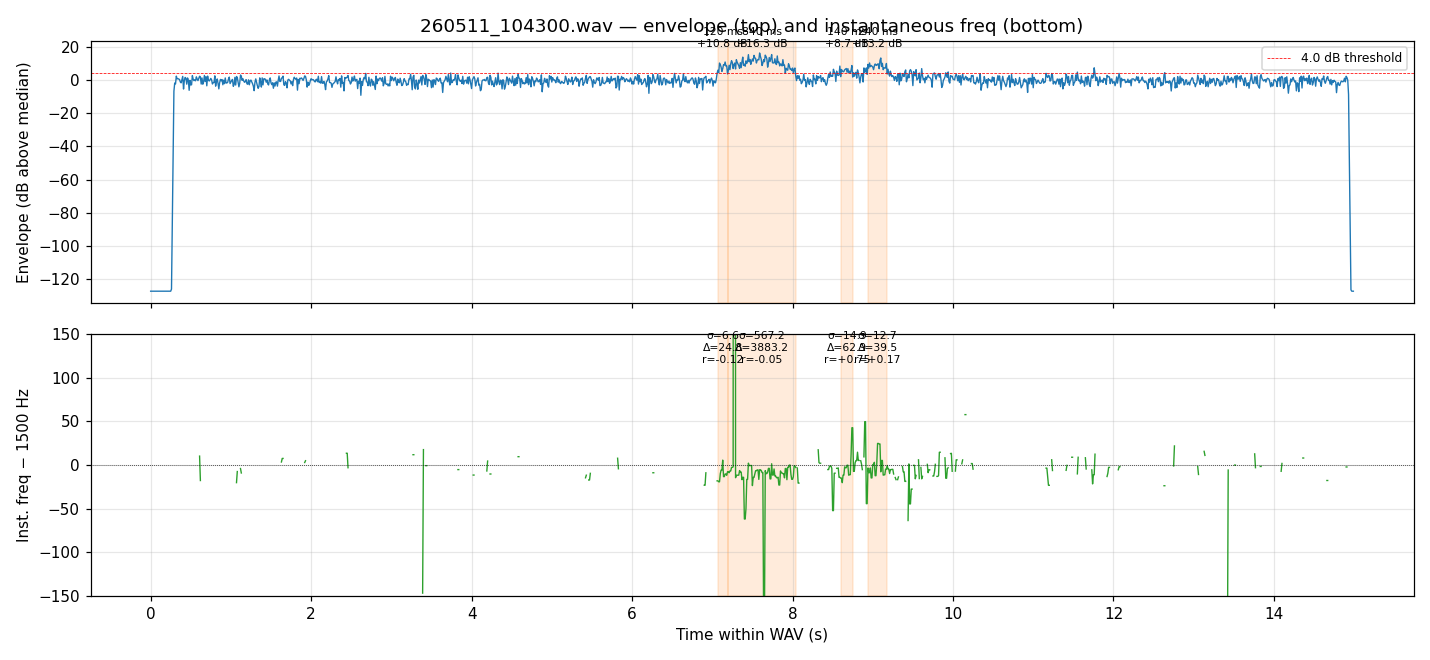
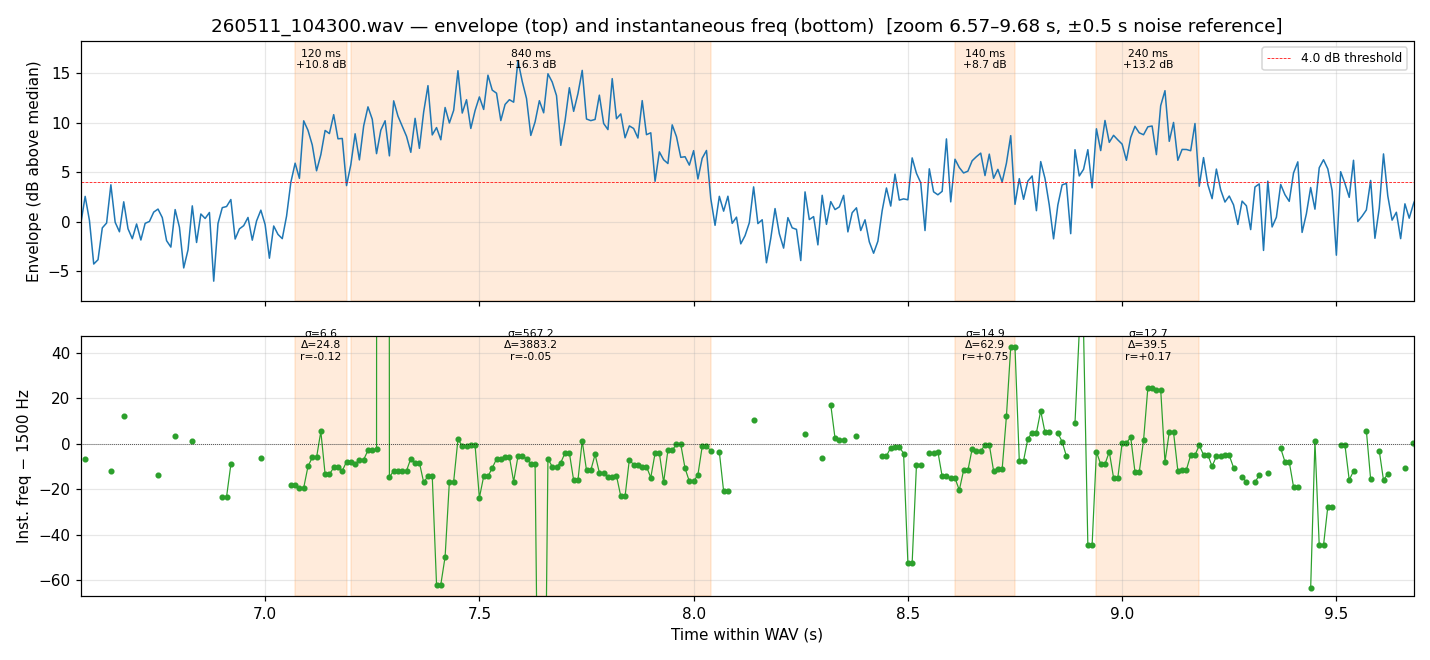
measure_ping_freq_vs_time: zoom to burst window with auto-scaled axes
The full 15-s WAV plot squeezed the relevant data (90 ms ping) into
~0.5% of the x-axis.  Plot now:

- Zooms x-axis to (earliest burst start − 0.5 s) ... (latest burst end + 0.5 s),
  clamped to WAV bounds.  Covers all bursts in a WAV including long
  extended pings.  Falls back to full 15-s if no bursts detected.
- Auto-scales envelope y-axis to visible data range with a -10 dB floor
  and the +4 dB threshold always visible.  WAV-boundary zeros (-120 dB)
  no longer squash the scale.
- Auto-scales freq y-axis using 2nd–98th percentile to be robust against
  measurement glitches (squared-FFT peak finder can occasionally jump to
  a different signal in multi-station periods, producing one-bin spikes
  >1 kHz that would otherwise dominate).  Hard-capped at ±200 Hz.
- Zoom range shown in title for context.

Regenerated all 6 doppler_sample_*.png in docs/figures/.

diff --git a/tools/measure_ping_freq_vs_time.py b/tools/measure_ping_freq_vs_time.py
@@ -240,34 +240,103 @@ def analyse_wav(path: Path) -> tuple[np.ndarray, np.ndarray, float, list[BurstFr
 # ── Plotting ─────────────────────────────────────────────────────────────────
 
 def plot_wav(path: Path, env_db: np.ndarray, freq_t: np.ndarray, env_bin_s: float,
-             bursts: list[BurstFreqStat], out_path: Path | None = None) -> Path:
+             bursts: list[BurstFreqStat], out_path: Path | None = None,
+             pre_post_buffer_s: float = 0.5) -> Path:
+    """Plot envelope + instantaneous freq, zoomed to the ping(s) with a
+    pre/post-burst buffer for noise-floor reference.
+
+    Zoom behaviour:
+        - If any bursts detected: x-axis spans from
+            (earliest burst start − pre_post_buffer_s)
+          to
+            (latest   burst end   + pre_post_buffer_s)
+          clamped to the WAV duration.  Covers all bursts in the WAV
+          including long extended pings.
+        - If no bursts: falls back to the full WAV (15 s).
+    """
     import matplotlib
     matplotlib.use('Agg')
     import matplotlib.pyplot as plt
 
     t = np.arange(len(env_db)) * env_bin_s
     median_db = float(np.median(env_db))
+    wav_duration = float(len(env_db) * env_bin_s)
+
+    # Compute zoom window
+    if bursts:
+        t_start = max(0.0, min(b.t_start for b in bursts) - pre_post_buffer_s)
+        t_end   = min(wav_duration, max(b.t_end for b in bursts) + pre_post_buffer_s)
+        # Guarantee minimum 1-second window even if everything is squeezed
+        if t_end - t_start < 1.0:
+            mid = (t_end + t_start) / 2.0
+            t_start = max(0.0, mid - 0.5)
+            t_end   = min(wav_duration, mid + 0.5)
+        zoom_note = f"  [zoom {t_start:.2f}–{t_end:.2f} s, ±{pre_post_buffer_s:.1f} s noise reference]"
+    else:
+        t_start, t_end = 0.0, wav_duration
+        zoom_note = "  [no bursts — full WAV shown]"
 
     fig, (ax_a, ax_f) = plt.subplots(2, 1, figsize=(13, 6), sharex=True)
 
-    ax_a.plot(t, env_db - median_db, color='C0', lw=0.9)
+    ax_a.plot(t, env_db - median_db, color='C0', lw=1.0)
     ax_a.axhline(BURST_THRESH_DB, color='r', ls='--', lw=0.5,
                  label=f'{BURST_THRESH_DB} dB threshold')
     ax_a.set_ylabel('Envelope (dB above median)')
-    ax_a.set_title(f'{path.name} — envelope (top) and instantaneous freq (bottom)')
+    ax_a.set_title(f'{path.name} — envelope (top) and instantaneous freq (bottom){zoom_note}')
     ax_a.grid(alpha=0.3)
     ax_a.legend(loc='upper right', fontsize=8)
+    ax_a.set_xlim(t_start, t_end)
+    # Auto-scale envelope y-axis to the visible zoom window so WAV-boundary
+    # zeros (huge negative dB at file edges) don't squash the data range.
+    env_zoom_mask = (t >= t_start) & (t <= t_end)
+    if env_zoom_mask.any():
+        env_visible = env_db[env_zoom_mask] - median_db
+        env_lo = float(np.nanmin(env_visible)) - 2.0
+        env_hi = float(np.nanmax(env_visible)) + 2.0
+        # Ensure the burst-threshold line stays visible
+        env_hi = max(env_hi, BURST_THRESH_DB + 1.0)
+        # Sensible floor — don't zoom below -10 dB so noise spread shows
+        env_lo = max(env_lo, -10.0)
+        ax_a.set_ylim(env_lo, env_hi)
 
     # Plot freq vs time, but only where envelope is meaningfully above noise
     # (otherwise the freq estimate is noise-dominated and dominates the plot range)
     mask = env_db > (median_db + 1.0)
     f_plot = np.where(mask, freq_t, np.nan)
-    ax_f.plot(t, f_plot - 1500.0, color='C2', lw=0.9)
+    ax_f.plot(t, f_plot - 1500.0, 'o-', color='C2', markersize=3, lw=0.8)
     ax_f.axhline(0.0, color='k', ls=':', lw=0.5)
     ax_f.set_ylabel('Inst. freq − 1500 Hz')
     ax_f.set_xlabel('Time within WAV (s)')
     ax_f.grid(alpha=0.3)
-    ax_f.set_ylim(-150, 150)
+    ax_f.set_xlim(t_start, t_end)
+
+    # Auto-scale freq y-axis based on the data visible in the zoom window.
+    # Use 2nd–98th percentile to be robust against outliers from measurement
+    # glitches (e.g., the squared-FFT peak finder jumping between two signals
+    # in a multi-station period can produce one-bin spikes >1 kHz that would
+    # otherwise dominate the scale).
+    zoom_mask = (t >= t_start) & (t <= t_end) & mask
+    if zoom_mask.any():
+        f_visible = freq_t[zoom_mask] - 1500.0
+        f_visible = f_visible[np.isfinite(f_visible)]
+        if len(f_visible) >= 3:
+            p_lo = float(np.percentile(f_visible, 2))
+            p_hi = float(np.percentile(f_visible, 98))
+        else:
+            p_lo = float(np.nanmin(f_visible))
+            p_hi = float(np.nanmax(f_visible))
+        # Pad and ensure zero line is visible
+        f_lo = min(p_lo - 5.0, -10.0)
+        f_hi = max(p_hi + 5.0, +10.0)
+        # Minimum span 30 Hz; hard cap of ±200 Hz so outliers can't blow it up
+        if (f_hi - f_lo) < 30.0:
+            mid = (f_lo + f_hi) / 2.0
+            f_lo, f_hi = mid - 15.0, mid + 15.0
+        f_lo = max(f_lo, -200.0)
+        f_hi = min(f_hi, +200.0)
+        ax_f.set_ylim(f_lo, f_hi)
+    else:
+        ax_f.set_ylim(-150, 150)
 
     # Annotate each burst region with its stats
     for b in bursts:
